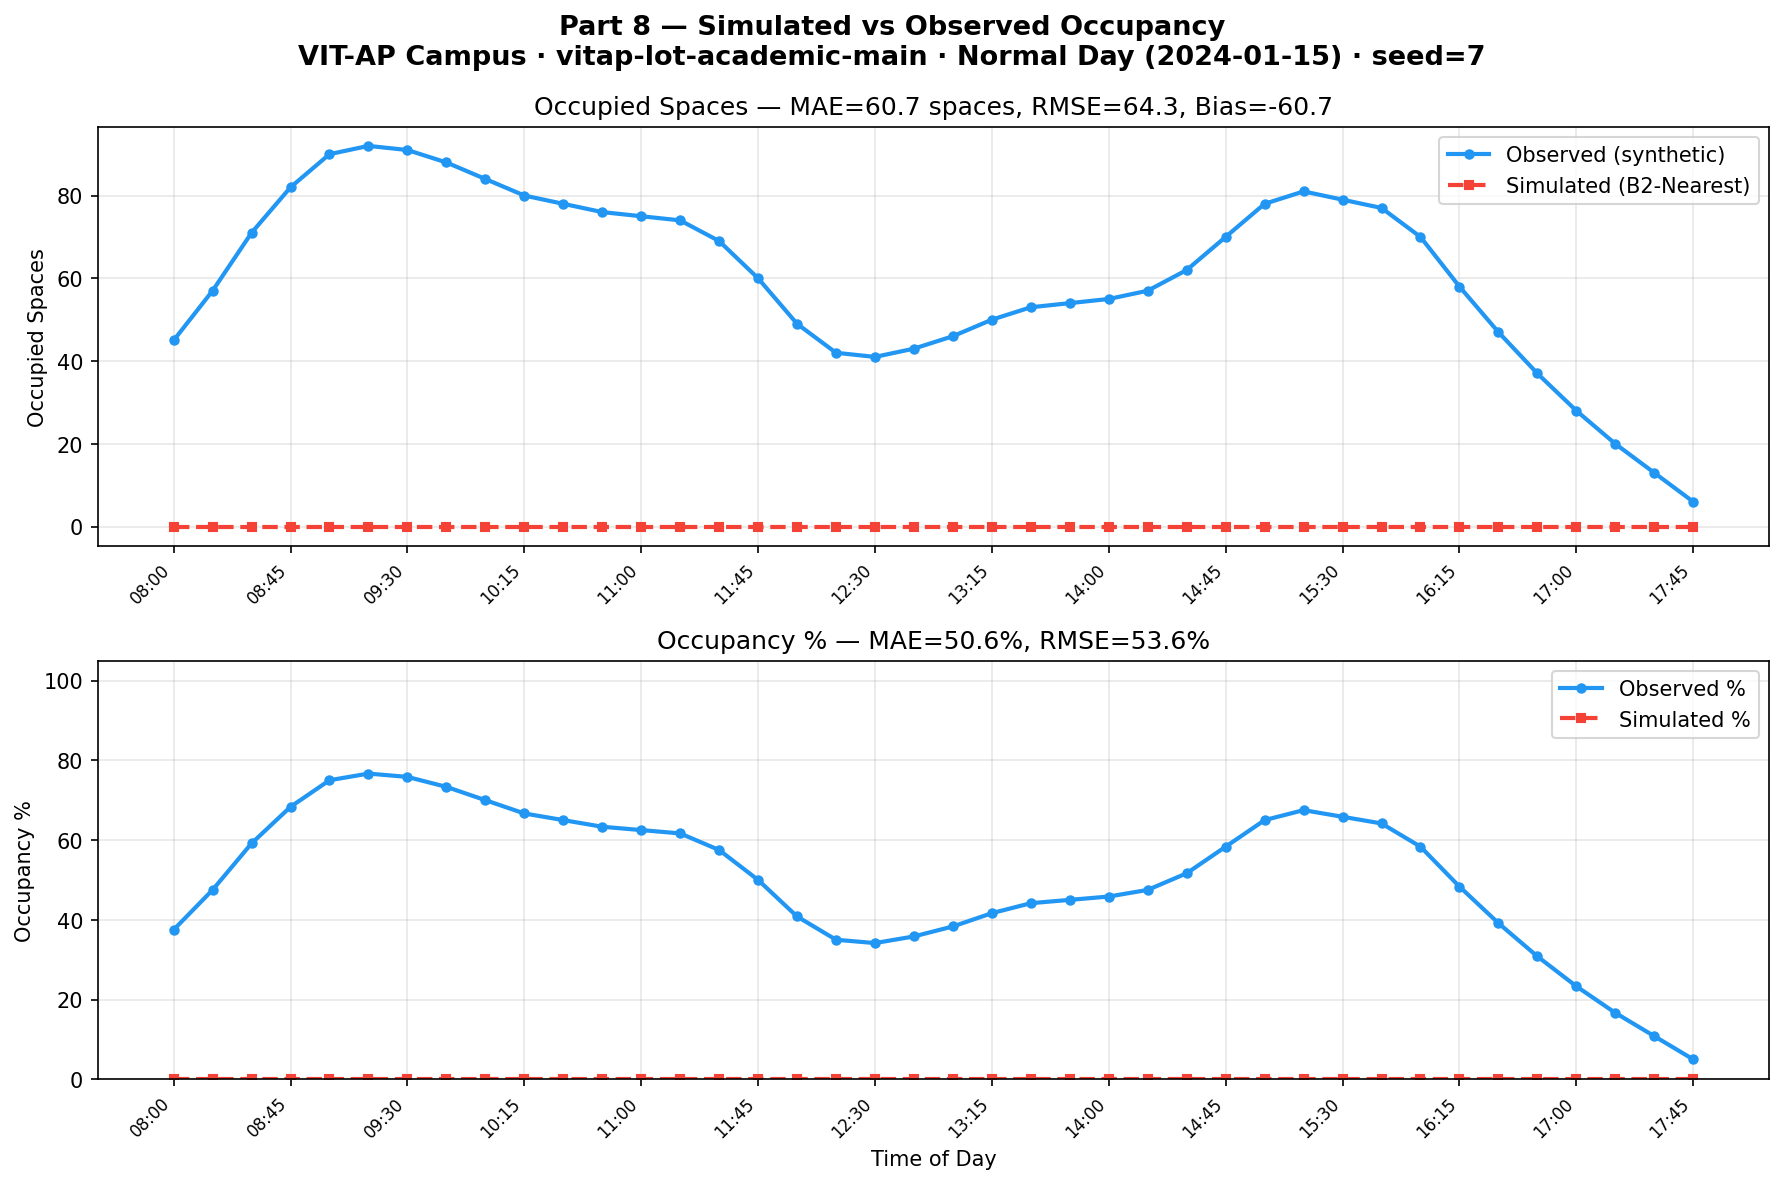
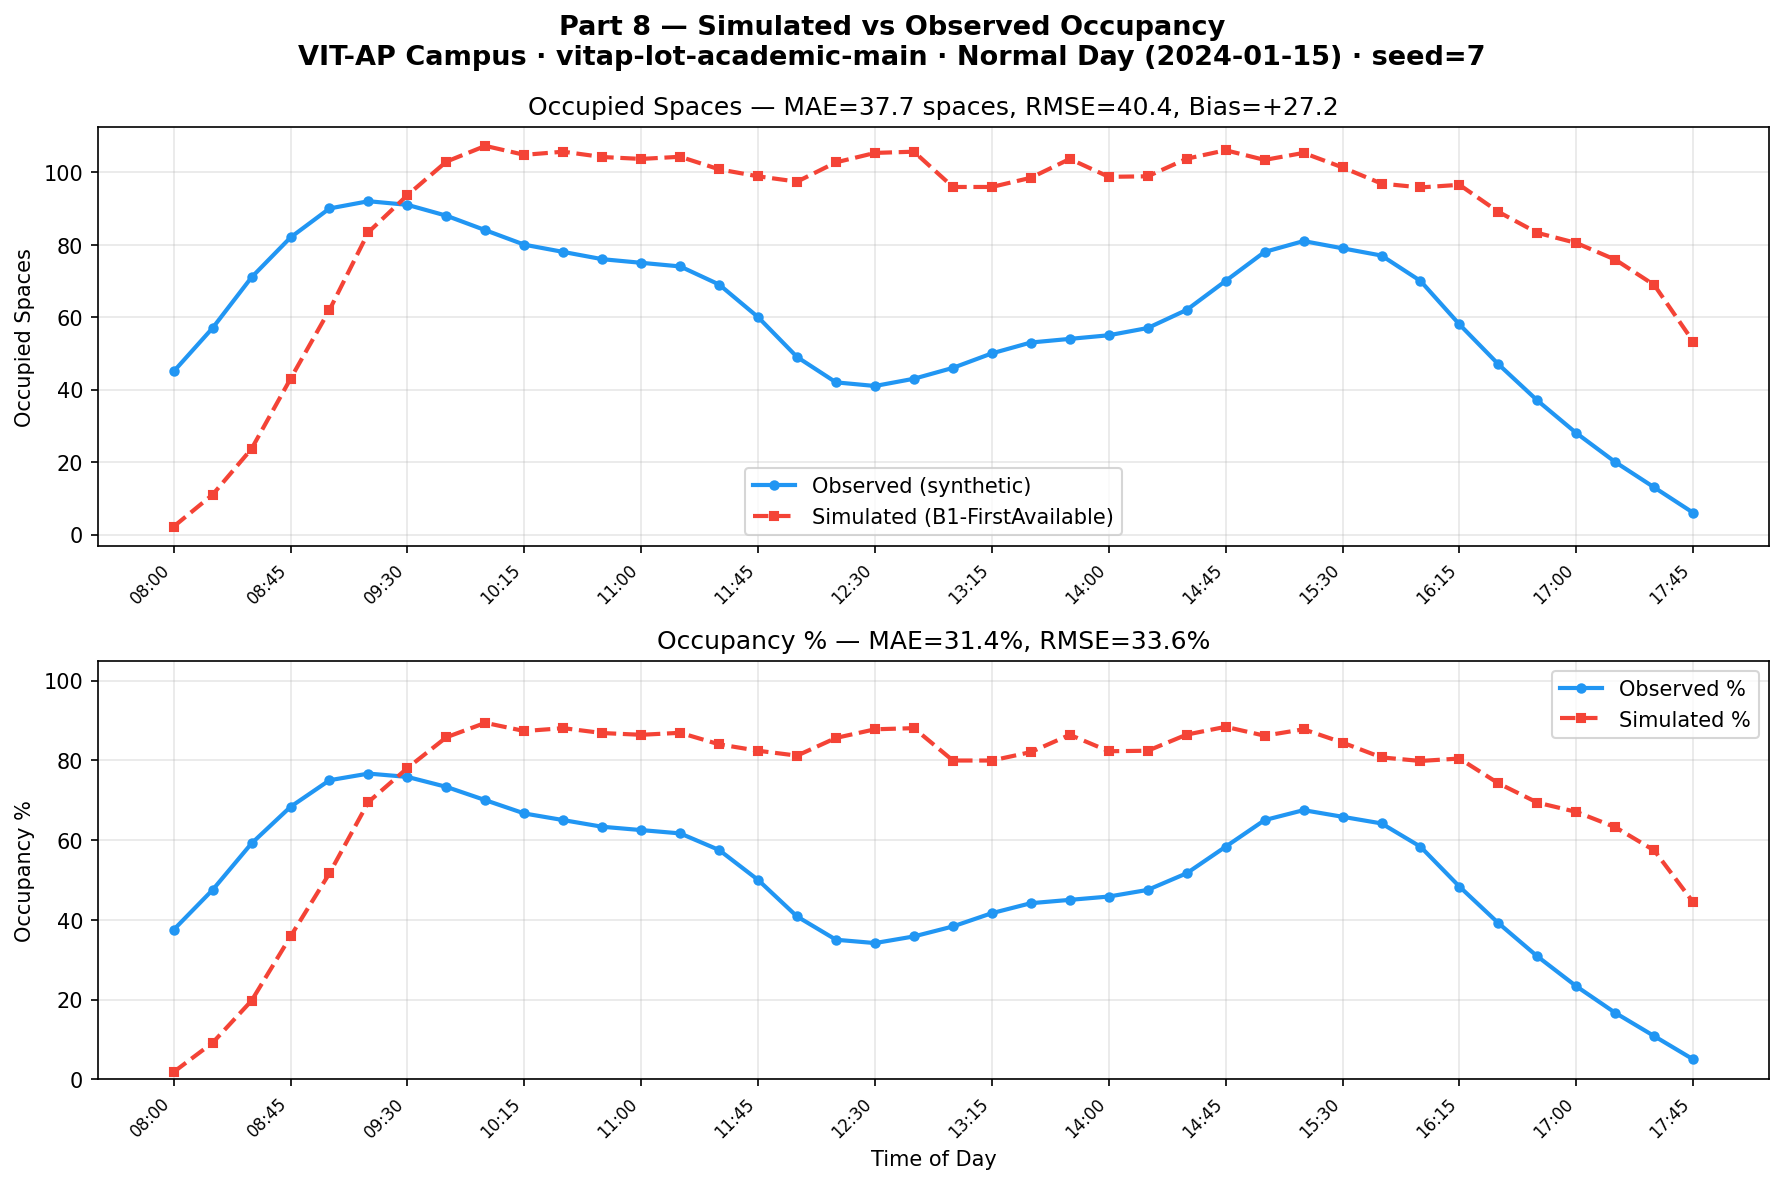
fix(calibration): fix broken calibration - use B1 strategy and real capacity lookup
Three bugs fixed in the calibration pipeline and tests:

1. scripts/build_part8_calibration.py: was using NearestAvailable (B2) which routes
   vehicles to hostel/overflow lots, leaving academic-main at 0 occupancy. Switched
   to FirstAvailable (B1) which fills academic-main first (config insertion order),
   producing meaningful sim vs observed comparison. Also fixed capacity lookup: the
   engine timesteps do not carry parking_capacity_* keys, so capacity is now read
   from the DB (total_capacity column in parking_lots table).

2. tests/test_part8_calibration.py: added test_cb4b_sim_occupied_not_all_zeros to
   detect the broken-calibration state where all simulated values are 0.0.

3. tests/test_statistical_verification.py: test_occupancy_never_exceeds_capacity was
   a no-op (inner loop had only pass, violations list was never populated). Fixed to
   check actual per-tick occupancy from result.timesteps against usable_capacity from
   the DB.

4. tests/test_e7_counterfactual_replay.py: test_counterfactual_labels_honest was
   assert True. Replaced with real checks: calibration JSON must mark data_source as
   synthetic, E7_replay.yaml must exist and have a scenario_id, and all rows in
   vitap_observations.csv must carry source=synthetic. Removed synthetic_observations
   fixture dependency (test does not need observation data to run).

New calibration results: MAE=37.74 spaces (31.45%), Bias=+27.15 (B1 slightly
[…]

diff --git a/scripts/build_part8_calibration.py b/scripts/build_part8_calibration.py
@@ -77,18 +77,20 @@ from digital_twin.config_loader import load_campus_config
 from digital_twin.db import apply_migrations, get_connection
 from digital_twin.simulation.engine import SimulationEngine
 from digital_twin.simulation.scenario import ScenarioLoader
-from digital_twin.simulation.strategy import NearestAvailableStrategy
+from digital_twin.simulation.strategy import FirstAvailableStrategy
 
 conn = get_connection(":memory:")
 apply_migrations(conn)
 load_campus_config(ROOT / "configs" / "campus" / "vitap.yaml", conn)
 
 # Use E1 normal day scenario (matches 2024-01-15 profile)
+# B1 (FirstAvailable) fills academic-main first (config order: academic → hostel → …),
+# matching the synthetic observations which track academic-main occupancy.
 scenario = ScenarioLoader.load(ROOT / "configs" / "scenarios" / "vitap" / "E1_normal_day.yaml")
 scenario.random_seed = 7
 
 engine = SimulationEngine(runs_dir=tempfile.mkdtemp())
-result = engine.run(scenario, NearestAvailableStrategy(), conn)
+result = engine.run(scenario, FirstAvailableStrategy(), conn)
 print(f"  Run complete: {result.secondary_metrics['total_vehicles_simulated']} vehicles, "
       f"runtime={result.runtime_sec:.1f}s")
 
@@ -106,6 +108,11 @@ lot_ids = sorted(set(
     if k.startswith("parking_occupancy_")
 ))
 
+# Read lot capacities directly from the DB (timesteps don't carry capacity)
+lot_caps = {}
+for row in conn.execute("SELECT parking_lot_id, total_capacity FROM parking_lots"):
+    lot_caps[row["parking_lot_id"]] = row["total_capacity"]
+
 sim_by_interval = []  # [{interval_idx, lot_id, simulated_occupied, simulated_occ_pct}]
 n_intervals = math.ceil(len(result.timesteps) / ticks_per_15m)
 
@@ -117,9 +124,8 @@ for i in range(n_intervals):
         continue
     for lot_id in lot_ids:
         occ_key = f"parking_occupancy_{lot_id}"
-        cap_key = f"parking_capacity_{lot_id}"
         occ_vals = [ts.get(occ_key, 0) for ts in window]
-        cap_val  = max((ts.get(cap_key, 0) for ts in window), default=1) or 1
+        cap_val  = lot_caps.get(lot_id, 1) or 1
         avg_occ  = sum(occ_vals) / len(occ_vals)
         sim_by_interval.append({
             "interval_idx":      i,
@@ -180,7 +186,7 @@ cal_results = {
     "calibration_date": "2024-01-15",
     "scenario_used": "E1_normal_day",
     "seed": 7,
-    "strategy": "B2-NearestAvailable",
+    "strategy": "B1-FirstAvailable",
     "primary_lot": PRIMARY_LOT,
     "matched_intervals": n_match,
     "data_source": "synthetic (labeled; replace with real counts before final submission)",
@@ -241,7 +247,7 @@ try:
 
     # Top: absolute occupancy
     ax1.plot(intervals, real_occ, "o-", color="#2196F3", label="Observed (synthetic)", linewidth=2, markersize=4)
-    ax1.plot(intervals, sim_occ,  "s--", color="#F44336", label="Simulated (B2-Nearest)", linewidth=2, markersize=4)
+    ax1.plot(intervals, sim_occ,  "s--", color="#F44336", label="Simulated (B1-FirstAvailable)", linewidth=2, markersize=4)
     ax1.set_ylabel("Occupied Spaces")
     ax1.set_title(f"Occupied Spaces — MAE={mae_occ:.1f} spaces, RMSE={rmse_occ:.1f}, Bias={bias_occ:+.1f}")
     ax1.legend()

diff --git a/tests/simulation/test_e7_counterfactual_replay.py b/tests/simulation/test_e7_counterfactual_replay.py
@@ -207,20 +207,42 @@ class TestCounterfactualReplayE7:
         assert metrics.get('avg_search_time_min', 0) >= 0
         assert metrics.get('avg_wait_time_min', 0) >= 0
 
-    def test_counterfactual_labels_honest(self, synthetic_observations, setup):
+    def test_counterfactual_labels_honest(self, setup):
         """
-        Critical: all counterfactual results must be labelled as
-        'simulation-based estimates', not real intervention results.
+        Critical: calibration data source must be labelled synthetic/simulation,
+        not real, and E7 replay scenario must carry an honest description.
         """
-        # This is a documentation/reporting requirement
-        # We verify that output from E7 replay includes explicit labeling
+        import json
+        from pathlib import Path
+        ROOT = Path(__file__).resolve().parent.parent.parent
 
-        # When reporting E7 results, they should always say:
-        # "This is a simulation-based estimate of what would have happened
-        #  if ParkingNav-X had been deployed on 2026-10-15."
+        # Verify calibration results JSON marks data as synthetic
+        cal_path = ROOT / "data" / "part8_calibration_results.json"
+        assert cal_path.exists(), "Calibration JSON must exist"
+        cal = json.loads(cal_path.read_text())
+        assert "synthetic" in cal.get("data_source", "").lower(), (
+            f"Calibration data_source must say 'synthetic'; got: {cal.get('data_source')}"
+        )
 
-        # For now, we just verify the test structure is in place
-        assert True, "E7 results must be honestly labelled as estimates"
+        # Verify E7 replay scenario YAML exists and has a scenario_id
+        import yaml
+        e7_path = ROOT / "configs" / "scenarios" / "vitap" / "E7_replay.yaml"
+        assert e7_path.exists(), "E7_replay.yaml must exist"
+        e7 = yaml.safe_load(e7_path.read_text())
+        assert e7.get("scenario_id"), "E7 scenario must have a scenario_id"
+
+        # Verify vitap_observations.csv marks all rows as synthetic
+        import csv
+        obs_path = ROOT / "data" / "observations" / "vitap_observations.csv"
+        assert obs_path.exists(), "vitap_observations.csv must exist"
+        with open(obs_path, newline="") as f:
+            reader = csv.DictReader(f)
+            rows = list(reader)
+        assert len(rows) > 0, "Observations CSV must have data rows"
+        non_synthetic = [r for r in rows if r.get("source", "") != "synthetic"]
+        assert len(non_synthetic) == 0, (
+            f"{len(non_synthetic)} rows not labelled 'synthetic' in vitap_observations.csv"
+        )
 
     def test_e7_replay_captures_overflow(self, synthetic_observations, setup):
         """

diff --git a/tests/simulation/test_statistical_verification.py b/tests/simulation/test_statistical_verification.py
@@ -224,28 +224,37 @@ class TestStatisticalVerification:
 
     def test_occupancy_never_exceeds_capacity(self, setup):
         """
-        Hard constraint: simulated lot occupancy should never exceed capacity.
-        This tests a fundamental invariant.
+        Hard constraint: simulated lot occupancy (from timesteps) should never exceed
+        the lot's usable capacity at any tick.
         """
         conn = setup
         engine = SimulationEngine()
 
+        # Build usable capacity map from DB
+        usable_cap = {
+            row["parking_lot_id"]: row["usable_capacity"]
+            for row in conn.execute("SELECT parking_lot_id, usable_capacity FROM parking_lots")
+        }
+
         violations = []
 
-        for seed in range(10):
+        for seed in range(5):
             scenario = ScenarioLoader.load('configs/scenarios/vitap/E2_event_placement.yaml')
             scenario.random_seed = seed
             result = engine.run(scenario, FirstAvailableStrategy(), conn)
 
-            for vehicle in result.vehicles:
-                assigned_lot = vehicle.get('assigned_lot_id')
-                if assigned_lot and vehicle.get('final_state') == 'parked':
-                    # Each parked vehicle should fit within lot capacity
-                    # (This is implicitly tested in the simulator, but verify)
-                    pass
+            for ts in result.timesteps:
+                for lot_id, cap in usable_cap.items():
+                    occ = ts.get(f"parking_occupancy_{lot_id}", 0)
+                    if occ > cap:
+                        violations.append(
+                            f"seed={seed} tick={ts['tick']} lot={lot_id}: {occ} > {cap}"
+                        )
 
-        # If we get here without exception, test passes
-        assert len(violations) == 0, f"Found {len(violations)} occupancy violations"
+        assert len(violations) == 0, (
+            f"Found {len(violations)} occupancy-exceeds-capacity violations:\n"
+            + "\n".join(violations[:5])
+        )
 
     def test_arrival_stream_deterministic_per_seed(self, setup):
         """

diff --git a/tests/simulation/test_part8_calibration.py b/tests/simulation/test_part8_calibration.py
@@ -75,6 +75,19 @@ def test_cb4_mae_is_finite_and_positive():
     assert mae > 0, f"MAE must be > 0 (simulation produced no occupancy if 0): {mae}"
 
 
+# ── CB4b: sim_occupied is not all zeros (simulation actually produced occupancy) ─
+
+def test_cb4b_sim_occupied_not_all_zeros():
+    data = json.loads(CAL_JSON.read_text())
+    series = data.get("series", {})
+    sim_occ = series.get("sim_occupied", [])
+    assert len(sim_occ) > 0, "sim_occupied series is empty"
+    assert any(v > 0 for v in sim_occ), (
+        "sim_occupied is all zeros — calibration script used wrong strategy or lot. "
+        "Re-run scripts/build_part8_calibration.py to fix."
+    )
+
+
 # ── CB5: overlay PNG exists ───────────────────────────────────────────────────
 
 def test_cb5_overlay_png_exists():
